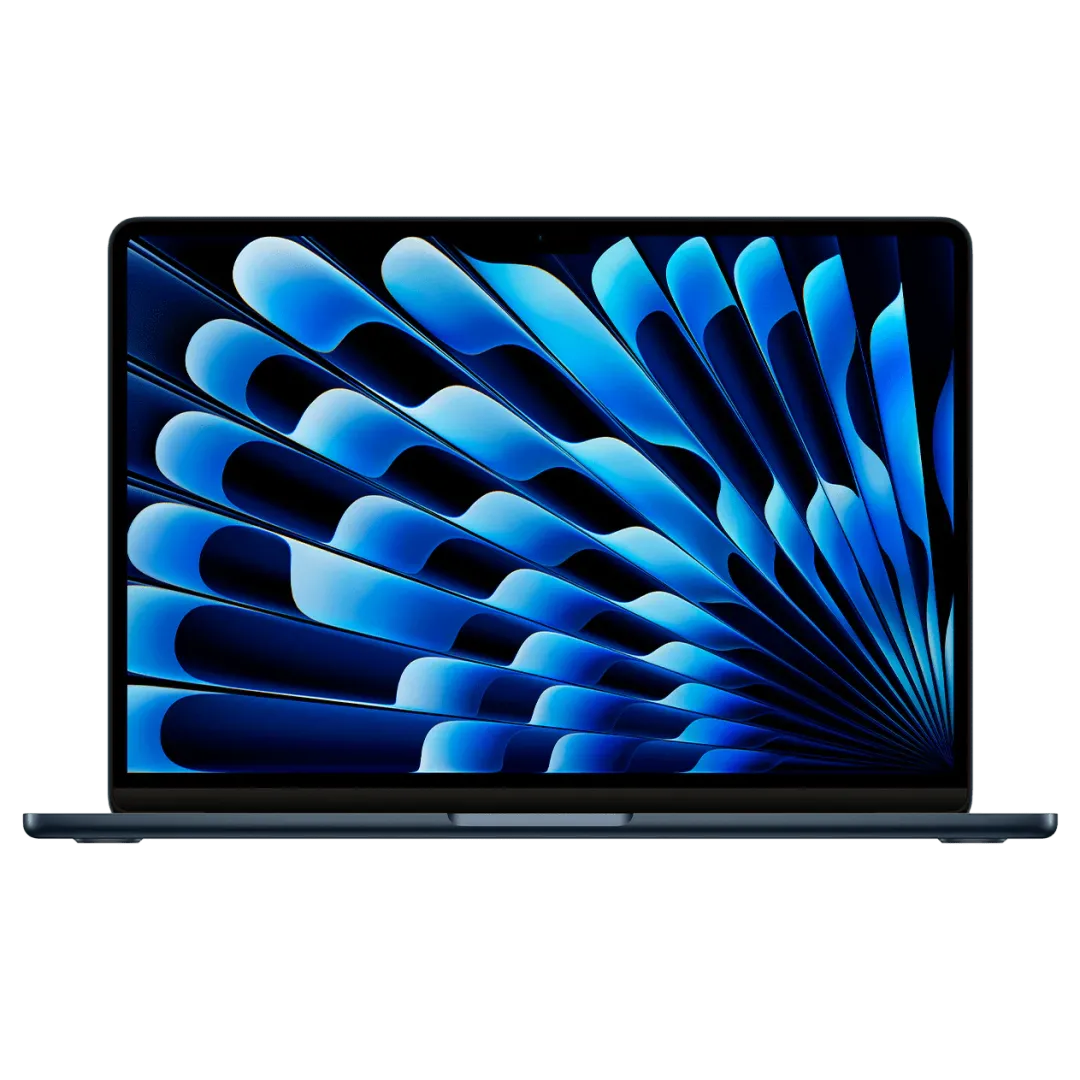
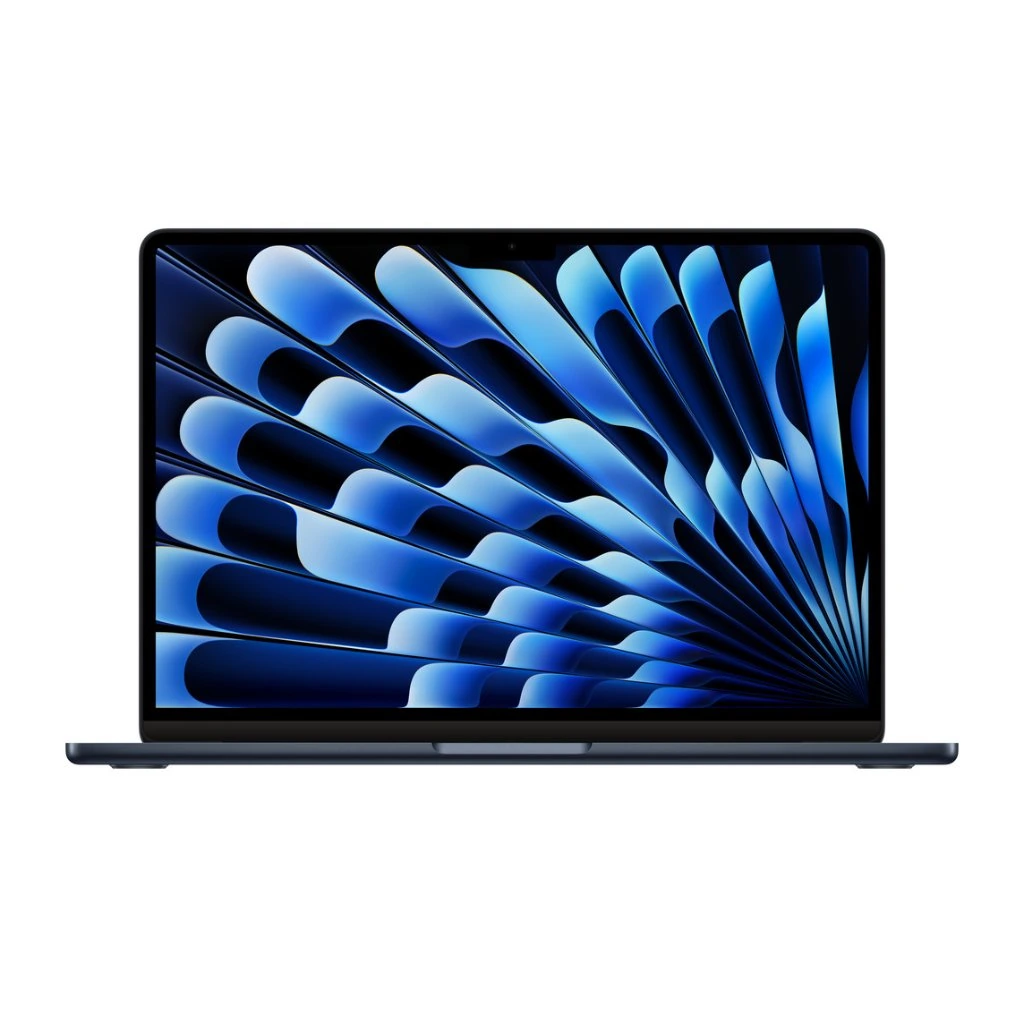
feat(products): integrate remaining 11 authentic product photos from user and update mockData

diff --git a/src/data/mockData.ts b/src/data/mockData.ts
@@ -465,7 +465,7 @@ export const PRODUCTS: Product[] = [
     rating: 4.85,
     reviewsCount: 76,
     images: [
-      '/products/prod-011.webp?v=4',
+      '/products/prod-011.webp?v=5',
     ],
     categoryId: 'cat-appliances',
     categoryName: 'Maishiy texnika',
@@ -528,11 +528,11 @@ export const PRODUCTS: Product[] = [
     rating: 5.0,
     reviewsCount: 164,
     images: [
-      '/products/prod-013.webp?v=4',
-      '/products/prod-013-starlight.webp?v=4',
-      '/products/prod-013-spacegray.webp?v=4',
-      '/products/prod-013-silver.webp?v=4',
-      '/products/prod-013-side.webp?v=4',
+      '/products/prod-013.webp?v=5',
+      '/products/prod-013-starlight.webp?v=5',
+      '/products/prod-013-spacegray.webp?v=5',
+      '/products/prod-013-silver.webp?v=5',
+      '/products/prod-013-side.webp?v=5',
     ],
     categoryId: 'cat-computers',
     categoryName: 'Noutbuk va kompyuterlar',
@@ -551,10 +551,10 @@ export const PRODUCTS: Product[] = [
       'Doimiy xotira': '512 GB SSD',
     },
     description: 'Yupqa, yengil va nihoyatda tezkor Apple MacBook Air M3. Talabalar, dasturchilar va dizaynerlar uchun eng ideal noutbuk.',    colors: [
-      { name: 'Midnight', hex: '#1C2530', image: '/products/prod-013.webp?v=4' },
-      { name: 'Starlight', hex: '#EDE6DB', image: '/products/prod-013-starlight.webp?v=4' },
-      { name: 'Space Gray', hex: '#7D7E80', image: '/products/prod-013-spacegray.webp?v=4' },
-      { name: 'Silver', hex: '#E3E4E5', image: '/products/prod-013-silver.webp?v=4' },
+      { name: 'Midnight', hex: '#1C2530', image: '/products/prod-013.webp?v=5' },
+      { name: 'Starlight', hex: '#EDE6DB', image: '/products/prod-013-starlight.webp?v=5' },
+      { name: 'Space Gray', hex: '#7D7E80', image: '/products/prod-013-spacegray.webp?v=5' },
+      { name: 'Silver', hex: '#E3E4E5', image: '/products/prod-013-silver.webp?v=5' },
     ],
     deliveryDays: 1,
   },
@@ -569,8 +569,7 @@ export const PRODUCTS: Product[] = [
     rating: 4.9,
     reviewsCount: 92,
     images: [
-      '/products/prod-014-infographic.webp?v=4',
-      '/products/prod-014.webp?v=4',
+      '/products/prod-014.webp?v=5',
     ],
     categoryId: 'cat-computers',
     categoryName: 'Noutbuk va kompyuterlar',
@@ -634,7 +633,7 @@ export const PRODUCTS: Product[] = [
     rating: 4.65,
     reviewsCount: 78,
     images: [
-      '/products/prod-016.webp?v=4',
+      '/products/prod-016.webp?v=5',
     ],
     categoryId: 'cat-computers',
     categoryName: 'Noutbuk va kompyuterlar',
@@ -706,7 +705,7 @@ export const PRODUCTS: Product[] = [
     rating: 4.9,
     reviewsCount: 74,
     images: [
-      '/products/prod-018.webp?v=4',
+      '/products/prod-018.webp?v=5',
     ],
     categoryId: 'cat-beauty',
     categoryName: 'Goʻzallik va parvarish',
@@ -736,7 +735,7 @@ export const PRODUCTS: Product[] = [
     rating: 4.85,
     reviewsCount: 135,
     images: [
-      '/products/prod-019.webp?v=4',
+      '/products/prod-019.webp?v=5',
     ],
     categoryId: 'cat-beauty',
     categoryName: 'Goʻzallik va parvarish',
@@ -830,8 +829,7 @@ export const PRODUCTS: Product[] = [
     rating: 4.8,
     reviewsCount: 114,
     images: [
-      '/products/prod-022-infographic.webp?v=4',
-      '/products/prod-022.webp?v=4',
+      '/products/prod-022.webp?v=5',
     ],
     categoryId: 'cat-auto',
     categoryName: 'Avtomobil jihozlari',
@@ -862,7 +860,7 @@ export const PRODUCTS: Product[] = [
     rating: 4.75,
     reviewsCount: 89,
     images: [
-      '/products/prod-023.webp?v=4',
+      '/products/prod-023.webp?v=5',
     ],
     categoryId: 'cat-auto',
     categoryName: 'Avtomobil jihozlari',
@@ -893,7 +891,7 @@ export const PRODUCTS: Product[] = [
     rating: 4.8,
     reviewsCount: 167,
     images: [
-      '/products/prod-024.webp?v=4',
+      '/products/prod-024.webp?v=5',
     ],
     categoryId: 'cat-auto',
     categoryName: 'Avtomobil jihozlari',
@@ -956,7 +954,7 @@ export const PRODUCTS: Product[] = [
     rating: 4.8,
     reviewsCount: 88,
     images: [
-      '/products/prod-026.webp?v=4',
+      '/products/prod-026.webp?v=5',
     ],
     categoryId: 'cat-home',
     categoryName: 'Uy-roʻzgʻor buyumlari',
@@ -986,7 +984,7 @@ export const PRODUCTS: Product[] = [
     rating: 4.85,
     reviewsCount: 165,
     images: [
-      '/products/prod-027.webp?v=4',
+      '/products/prod-027.webp?v=5',
     ],
     categoryId: 'cat-home',
     categoryName: 'Uy-roʻzgʻor buyumlari',
